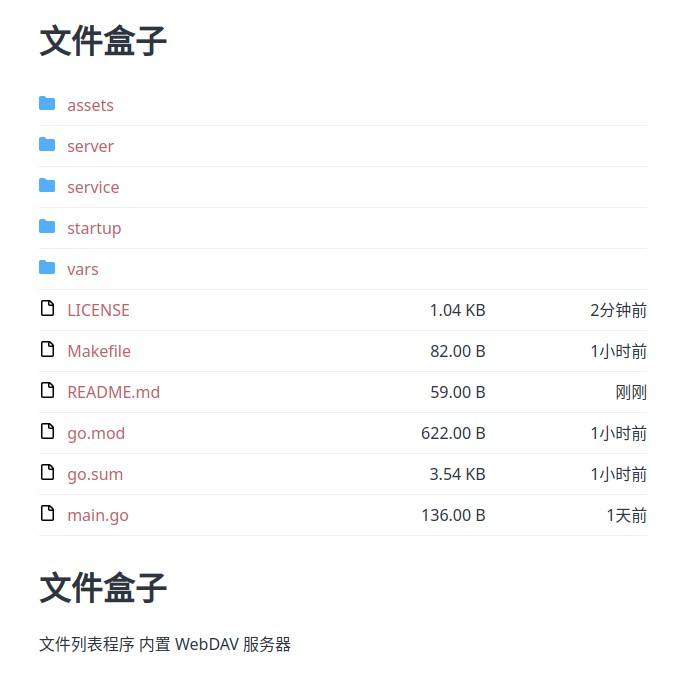
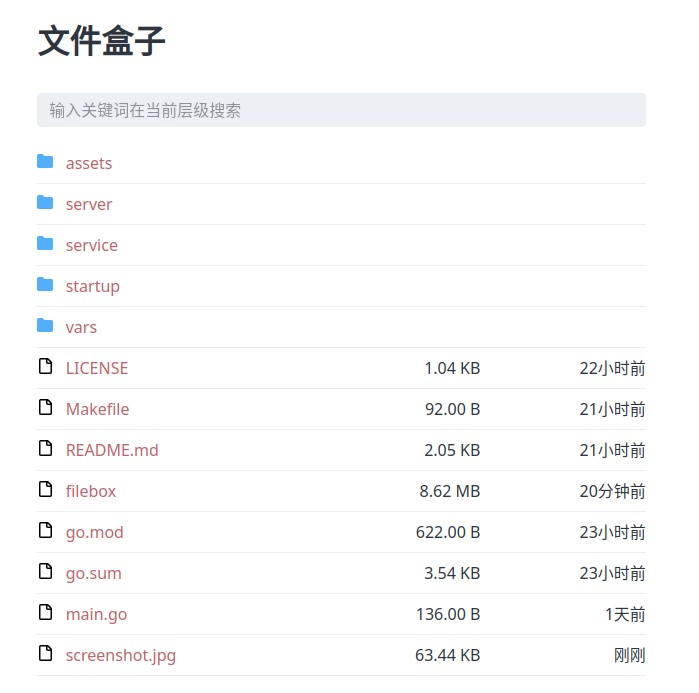
add search and cors support

diff --git a/assets/index.html b/assets/index.html
@@ -8,11 +8,19 @@
     <title>文件盒子</title>
     <link rel="stylesheet" href="https://unpkg.com/bamboo.css@1.3.11/dist/bamboo.min.css">
     <script src="https://unpkg.com/alpinejs@3.12.0/dist/cdn.min.js" defer></script>
+    <style>
+        #app>* {
+            margin-bottom: 1em;
+        }
+    </style>
 </head>
 
 <body>
-    <div x-data="alpine()" x-init="load">
+    <div x-data="alpine()" x-init="load" id="app">
         <h1 x-text="title">文件盒子</h1>
+
+        <input type="text" x-model="filterKeyword" placeholder="输入关键词在当前层级搜索" @input.debounce.250ms="search">
+
         <table>
             <tbody>
                 <template x-if="!data.toplevel">
@@ -22,7 +30,7 @@
                         </td>
                     </tr>
                 </template>
-                <template x-for="item in data.items">
+                <template x-for="item in items">
                     <tr>
                         <td>
                             <template x-if="item.is_dir">
@@ -50,6 +58,7 @@
                 </template>
             </tbody>
         </table>
+
         <template x-if="data.readme">
             <div x-html="data.readme"></div>
         </template>
@@ -116,9 +125,15 @@
         function alpine() {
             return {
                 data: __DATA_JSON__,
+                filterKeyword: '',
                 load: function () {
                     document.title = this.data.toplevel ? this.data.title : this.data.base;
                     this.title = this.data.toplevel ? this.data.title : this.data.path;
+                    this.search();
+                },
+                search: function () {
+                    const matchKeyword = this.filterKeyword.toLowerCase();
+                    this.items = this.data.items.filter(item => item.name.toLowerCase().includes(matchKeyword));
                 }
             }
         }

diff --git a/server/server.go b/server/server.go
@@ -53,6 +53,15 @@ func (h *handler) ServeHTTP(w http.ResponseWriter, r *http.Request) {
 		}
 	}
 
+	// Add CORS header for WebDAV when set --cors
+	if len(vars.CorsOrigin) > 0 {
+		w.Header().Add("Access-Control-Allow-Origin", vars.CorsOrigin)
+		w.Header().Add("Access-Control-Allow-Headers", "Overwrite, Destination, Content-Type, Depth, User-Agent, Translate, Range, Content-Range, Timeout, X-File-Size, X-Requested-With, If-Modified-Since, X-File-Name, Cache-Control, Location, Lock-Token, If")
+		w.Header().Add("Access-Control-Allow-Methods", "ACL, CANCELUPLOAD, CHECKIN, CHECKOUT, COPY, DELETE, GET, HEAD, LOCK, MKCALENDAR, MKCOL, MOVE, OPTIONS, POST, PROPFIND, PROPPATCH, PUT, REPORT, SEARCH, UNCHECKOUT, UNLOCK, UPDATE, VERSION-CONTROL")
+		w.Header().Add("Access-Control-Allow-Credentials", "true")
+		w.Header().Add("Access-Control-Expose-Headers", "DAV, Content-Length, Allow, ETag")
+		w.Header().Add("Access-Control-Max-Age", "3600")
+	}
 	if !basicAuthPass(w, r) {
 		return
 	}

diff --git a/startup/startup.go b/startup/startup.go
@@ -13,6 +13,7 @@ func Main() error {
 	flag.StringVar(&vars.Username, "username", "admin", "WebDAV 用户名")
 	flag.StringVar(&vars.Password, "password", "admin", "WebDAV 密码")
 	flag.StringVar(&vars.Title, "title", "文件盒子", "网站标题")
+	flag.StringVar(&vars.CorsOrigin, "cors", "", "CORS 允许的来源")
 	flag.Parse()
 	return server.Run()
 }

diff --git a/vars/vars.go b/vars/vars.go
@@ -1,9 +1,10 @@
 package vars
 
 var (
-	DataDir  string
-	Listen   string
-	Username string
-	Password string
-	Title    string
+	DataDir    string
+	Listen     string
+	Username   string
+	Password   string
+	Title      string
+	CorsOrigin string
 )

diff --git a/README.md b/README.md
@@ -38,6 +38,9 @@
 
   <dt>--password</dt>
   <dd>指定 WebDAV 密码，默认为"admin"</dd>
+
+  <dt>--cors</dt>
+  <dd>指定 CORS 跨域允许访问地址，默认不开启</dd>
 </dl>
 
 ## 高级特性
@@ -58,6 +61,8 @@
 由于 Basic Auth 的密码会明文传送，建议通过 Caddy / Nginx 等支持 HTTPS 的服务器进行反代。
 
 当用户名密码都设置为空时，WebDAV 将不验证任何身份，为了安全应该仅在可信环境内关闭用户名密码。
+
+当需要通过网页跨域访问时，可以设置 `--cors` 参数指定响应头 `Access-Control-Allow-Origin` 的内容。
 
 ### README.md
 
